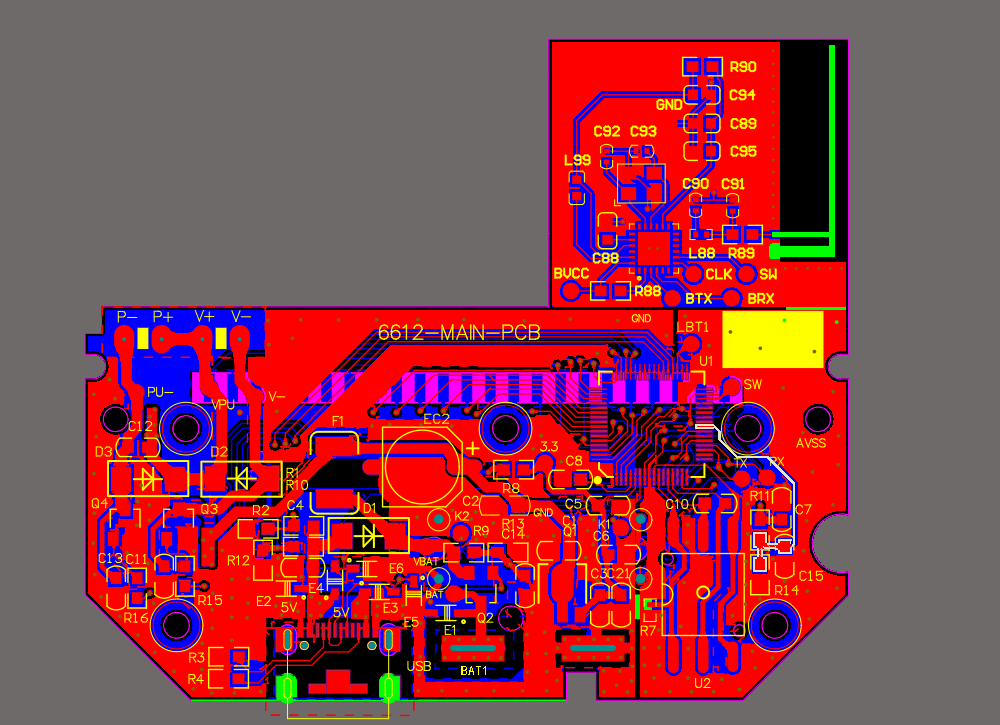
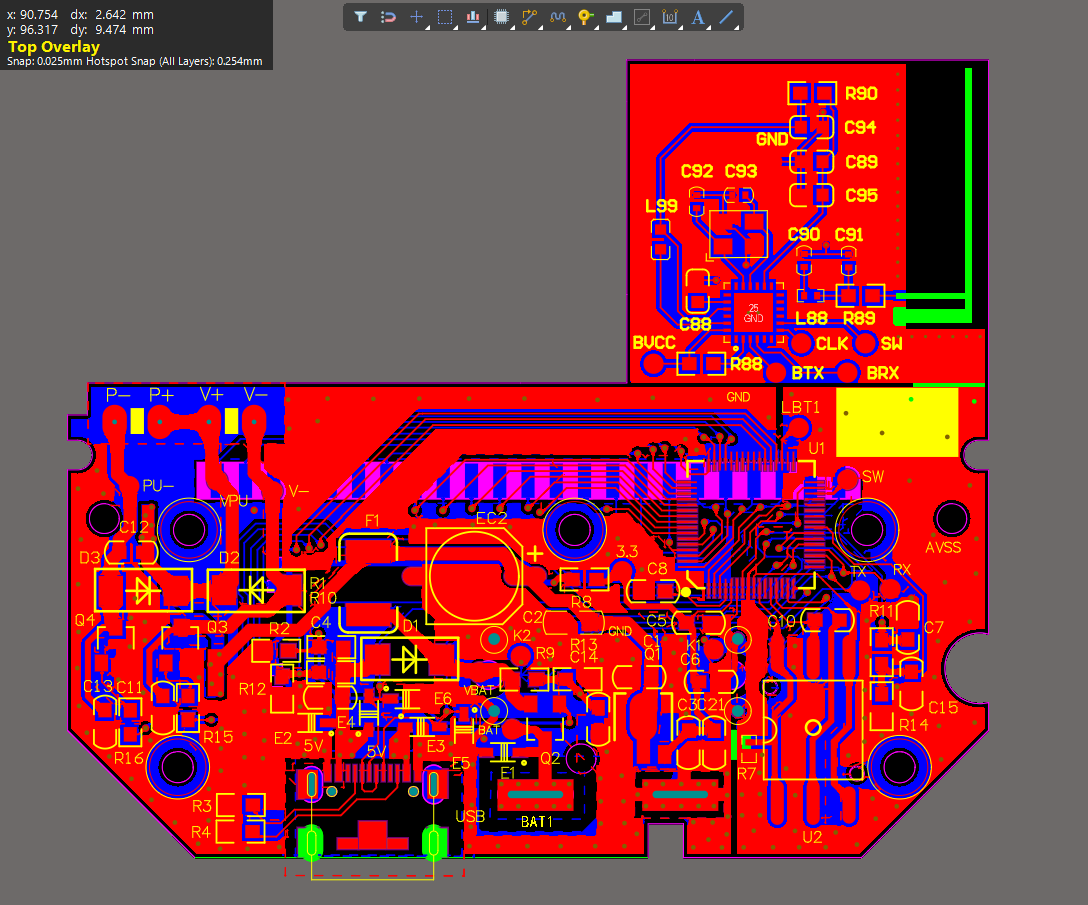
1
V2611

diff --git a/contents/experience.md b/contents/experience.md
@@ -1,18 +1,26 @@
-\#### 实习经历
+\# 工作经验
 
+\## 东莞振海电子科技有限公司 | 研发中心 | 电子三组组长 | 血压计项目负责人 | 2025.6 — 至今
 
+\- NIBP算法研发： 负责无创血压（NIBP）示波法算法研究与开发，涵盖升压式、降压式测量算法，开展脉搏波特征提取、血压参数建模、算法训练及测量精度优化。
+\- 嵌入式算法开发： 负责血压算法从MATLAB仿真分析到MCU端C语言移植与部署，实现数字滤波、压力信号处理、脉搏波检测及血压参数计算。
+\- 数字信号处理： 开展血压压力信号及振荡波信号分析，研究数字滤波、脉搏波提取、峰值检测及特征参数计算。
+\- 气路控制与系统调试： 负责气泵、电磁阀、压力传感器及ADC采集系统的软硬件调试，开展PWM驱动、充放气速率控制及智能升压算法优化。
+\- 临床数据分析与算法验证： 基于临床测试数据开展算法参数拟合、误差统计及性能评估，通过与标准血压计对比分析，持续优化算法参数与测量一致性。
+\- 竞品技术分析： 针对欧姆龙与乐心等血压计开展竞品研究与技术分析，围绕测量原理、升压与降压控制策略、压力轨迹、脉搏波特征提取及血压参数估算等方面进行对标研究。
+\- 血压标准与法规研究： 熟悉无创自动血压计相关标准及性能评价要求，理解ISO 81060-2等临床验证标准，掌握血压测量准确性评价、临床试验数据分析及产品性能验证的基本要求。
 
-\## 湖南友哲科技有限公司 · 技术中心 · 电子工程师，2023.12—2024.7
+\## 湖南友哲科技有限公司 | 技术中心 | 算法组 | 实习生 | 2023.12—2024.8
 
-\- 负责单片机控制与电机驱动、细胞识别算法的训练与部署、样本混匀仪的设计
+\- 视觉算法开发： 参与细胞形态视觉识别算法开发，负责样本数据处理、算法训练、模型优化及部署应用。
+\- 嵌入式开发： 参与单片机控制程序及电机驱动开发，实现算法与设备控制系统的协同运行。
+\- 设备研发： 参与样本混匀仪设计与开发，完成控制程序编写及软硬件调试。
 
+\## 东莞振海电子科技有限公司 | 研发中心 | 实习生 | 2022.7—2022.9
 
-
-\*\*振海电子科技有限公司\*\* · 电子部 · 助理工程师，2022.7—2022.9
-
-\- 负责测试架程序编写、NTC 升温测试及测试报告编写
-
-
+\- 辅助研发： 协助研发工程师开展产品开发与功能验证，参与样机调试及研发测试工作。
+\- 测试工装开发： 负责测试架制作、控制程序编写及调试，辅助实现产品自动化测试。
+\- 性能测试： 参与NTC升温测试、数据采集及测试报告编写。
 
 
 
